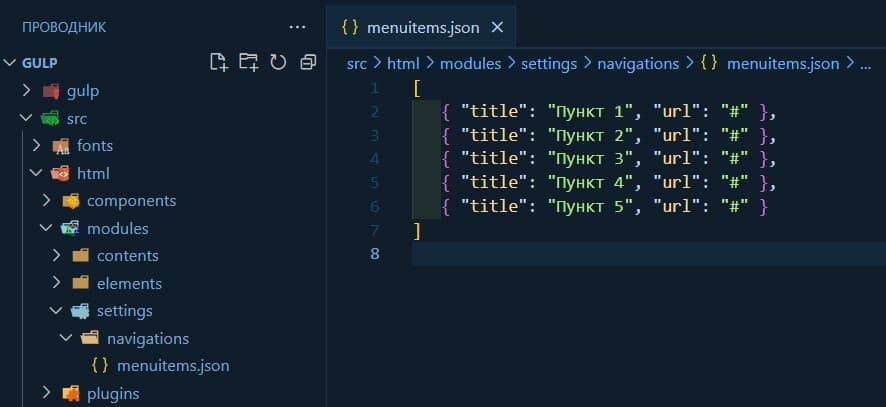
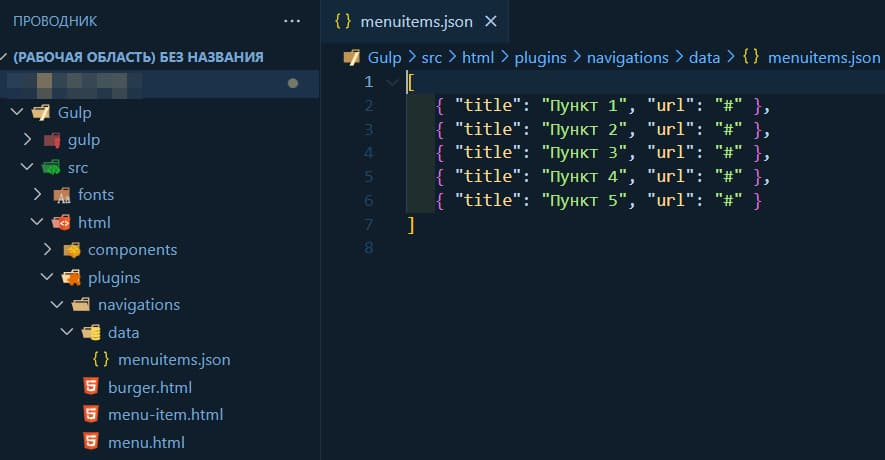
feat: Updated info

diff --git a/src/components/MarkingInfo/MarkingInfo.tsx b/src/components/MarkingInfo/MarkingInfo.tsx
@@ -33,16 +33,14 @@ export const MarkingInfo = () => {
 
             <p>
                Структура папок в папке <code>html</code> максимально проста и понятна. Внутри лежат 3 папки:{' '}
-               <code>components</code>, <code>modules</code> и <code>plugins</code>. В первую сложены «компоненты»
-               разметки, во вторую — вспомогательные «компоненты» для первой, в третью — разметка от используемых
-               самописных (включая честно прихватизированные у «коллег по цеху») плагинов. Внутри первой папки можно
-               найти папки <code>blocks</code>, куда складываются файлы с блоками для страницы, <code>elements</code>,
-               где лежат мелкие элементы типа бургера или кастомного чекбокса, и <code>layout</code>, где лежат шаблоны
-               для подключения информационного блока страницы (тег <code>head</code>), блока с подключением фавиконок и
-               шаблон подключения скриптов. Внутри второй папки сложены мелкие компоненты для циклов (папки{' '}
-               <code>elements</code>) и пропсы для некоторых импортируемых компонентов (папка <code>settings</code>).
-               Туда же (в папку <code>contents</code>) можно складывать обертки для контентного текста (или не текста).
-               Кроме того туда всегда можно добавить любые папки и файлы на собственный вкус и для собственных нужд.
+               <code>components</code> и <code>plugins</code>. В первую сложены «компоненты» разметки, во вторую —
+               разметка от используемых самописных (включая честно прихватизированные у «коллег по цеху») плагинов.
+               Внутри первой папки можно найти папки <code>blocks</code>, куда складываются файлы с блоками для
+               страницы, <code>elements</code>, где лежат мелкие элементы типа бургера или кастомного чекбокса, и{' '}
+               <code>layout</code>, где лежат шаблоны для подключения информационного блока страницы (тег{' '}
+               <code>head</code>), блока с подключением фавиконок и шаблон подключения скриптов. Внутри второй папки
+               лежит папка <code>navigations</code>, в которой лежат «компоненты» разметки необходимые для плагина
+               адаптивного бургерного меню.
             </p>
          </article>
       </section>

diff --git a/src/components/MarkingBonus/MarkingBonus.tsx b/src/components/MarkingBonus/MarkingBonus.tsx
@@ -55,9 +55,9 @@ export const MarkingBonus = () => {
                <p>
                   Текст и ссылку для каждого пункта меню, а так же количество самих пунктов можно указать в файле{' '}
                   <code>menuitems.json</code>, который находится по пути{' '}
-                  <code>html/modules/settings/navigations/navigation/menu.html</code>. Все необходимые параметры
-                  задаются в виде свойств сериализованного объекта. Массив таких объектов и составляет содержимое меню.
-                  Пример содержимого такого файла можно увидеть на скриншоте рядом.
+                  <code>html/plugins/navigations/data/menu.html</code>. Все необходимые параметры задаются в виде
+                  свойств сериализованного объекта. Массив таких объектов и составляет содержимое меню. Пример
+                  содержимого такого файла можно увидеть на скриншоте рядом.
                </p>
             </div>
          </article>

diff --git a/src/components/MarkingBonus/MarkingBonus.module.scss b/src/components/MarkingBonus/MarkingBonus.module.scss
@@ -55,10 +55,10 @@
 
             &:last-child {
                .marking-bonus-item-image {
-                  padding: 0 0 22% 48%;
+                  padding: 0 0 22% 42.3%;
 
                   @media all and (max-width: 1140.5px) {
-                     padding: 0 0 46% 100%;
+                     padding: 0 0 52% 100%;
                   }
                }
             }

diff --git a/src/components/MarkingInfo/MarkingInfo.module.scss b/src/components/MarkingInfo/MarkingInfo.module.scss
@@ -38,7 +38,7 @@
 
       &-struct {
          .marking-info-item-image {
-            padding: 0 0 31% 20%;
+            padding: 0 0 24% 20%;
 
             @media all and (max-width: 1140.5px) {
                display: none;
